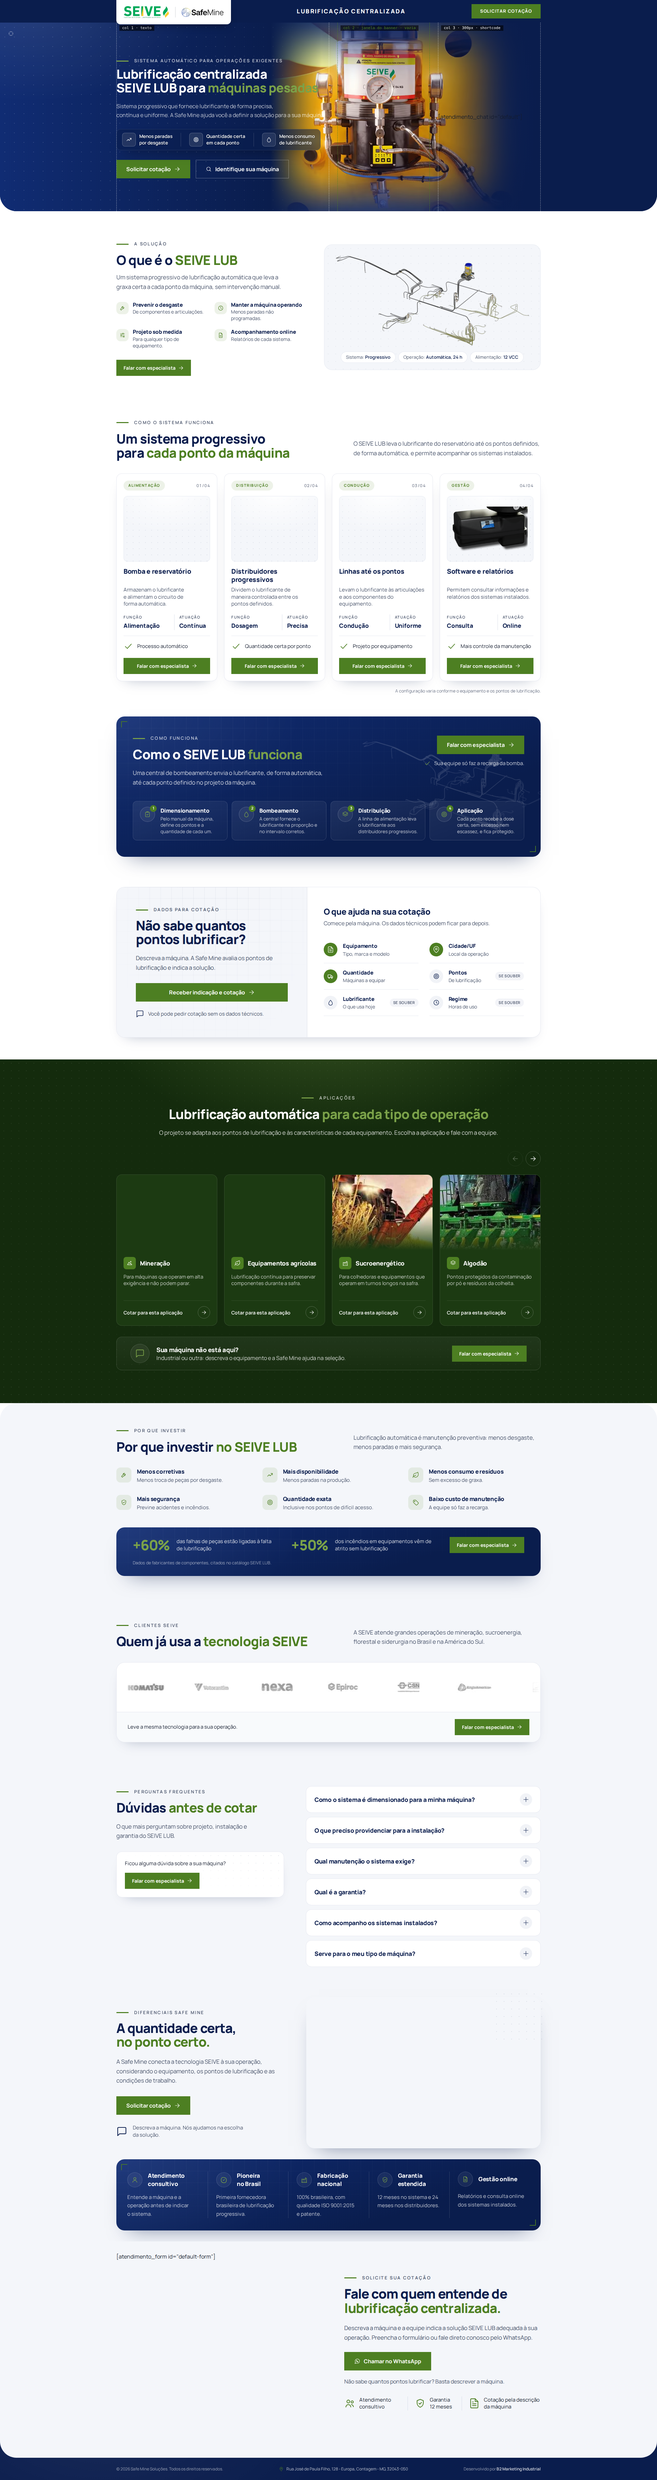
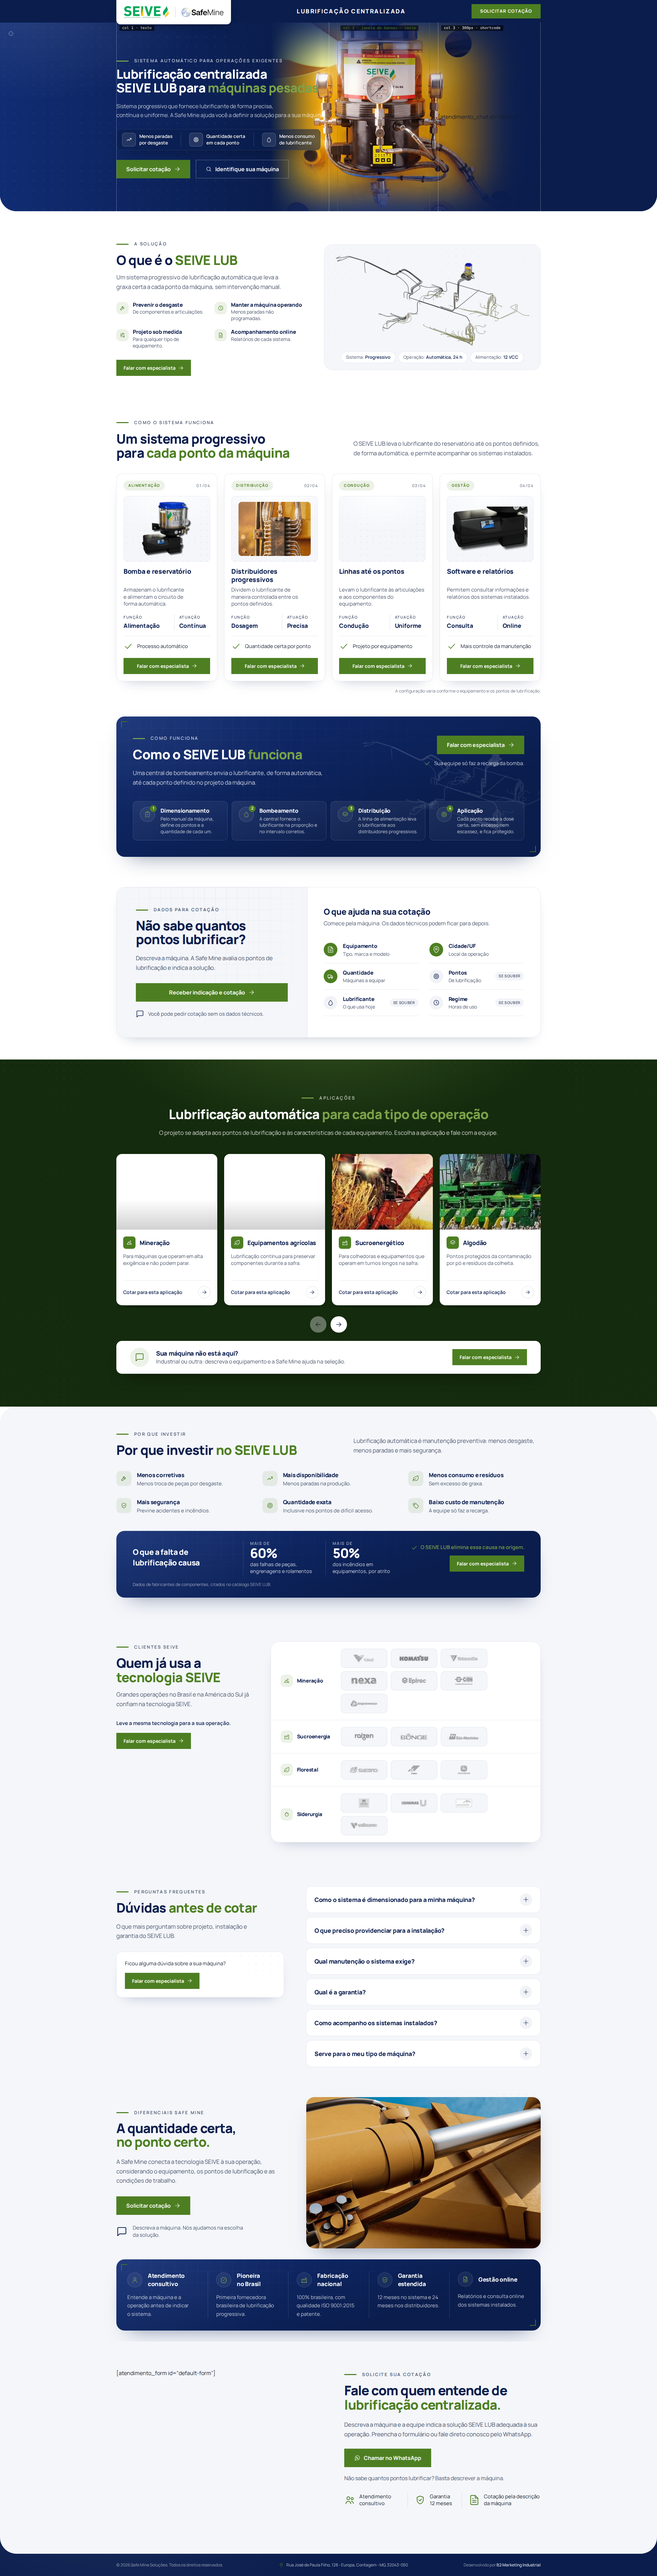
style: números como problema, cotação alinhada, aplicações em cards brancos
- Faixa de números: título "O que a falta de lubrificação causa", "mais de
  60%/50%" em branco e o fecho "O SEIVE LUB elimina essa causa na origem".
- Cotação: colunas alinhadas pelo topo e respiro acima/abaixo.
- Aplicações: cards e faixa de ajuda brancos sobre o verde; setas
  centralizadas abaixo do carrossel.
- Clientes agrupados por setor (sai o logo ilegível da AngloGold).

diff --git a/src/data/sections/clientes.ts b/src/data/sections/clientes.ts
@@ -4,9 +4,11 @@
  * Logos da página 5 do catálogo SEIVE LUB 2024: são clientes da fabricante, não da
  * Safe Mine, e entraram com o aval da B2 em 01/11/2026 (docs/BRIEFING.md). Vieram do PDF
  * em baixa resolução (cerca de 75×22 px cada); troque pelos arquivos originais quando
- * chegarem. Nesta LP são 18 logos em carrossel, acima dos 4–8 da biblioteca, e sem os
- * números da biblioteca (saíram a pedido do usuário em 03/11/2026).
+ * chegarem. Nesta LP são 17 logos agrupados por setor, como no catálogo, acima dos 4–8 da
+ * biblioteca, e sem os números (saíram a pedido do usuário em 03/11/2026). O logo da
+ * AngloGold Ashanti saiu por ficar ilegível na resolução do PDF.
  */
+import type { IconName } from '@data/icons'
 import type { Photo } from '@data/types'
 
 import vale from '@assets/clientes/vale.png'
@@ -16,7 +18,6 @@ import nexa from '@assets/clientes/nexa.png'
 import epiroc from '@assets/clientes/epiroc.png'
 import csn from '@assets/clientes/csn.png'
 import angloAmerican from '@assets/clientes/anglo-american.png'
-import anglogold from '@assets/clientes/anglogold-ashanti.png'
 import raizen from '@assets/clientes/raizen.png'
 import bunge from '@assets/clientes/bunge.png'
 import saoMartinho from '@assets/clientes/sao-martinho.png'
@@ -28,41 +29,54 @@ import usiminas from '@assets/clientes/usiminas.png'
 import arcelor from '@assets/clientes/arcelormittal.png'
 import vallourec from '@assets/clientes/vallourec.png'
 
-const logo = (src: Photo['src'], name: string) => ({ src, alt: name })
+export type Sector = 'mineracao' | 'sucroenergia' | 'florestal' | 'siderurgia'
+
+export interface ClientLogo extends Photo {
+  sector: Sector
+}
+
+const logo = (src: Photo['src'], alt: string, sector: Sector): ClientLogo => ({ src, alt, sector })
 
 export const clients = {
   eyebrow: 'Clientes SEIVE',
   title: 'Quem já usa a tecnologia SEIVE',
   /** Trecho do título em verde. */
   titleHighlight: 'tecnologia SEIVE',
-  text: 'A SEIVE atende grandes operações de mineração, sucroenergia, florestal e siderurgia no Brasil e na América do Sul.',
-  logos: [
-    logo(vale, 'Vale'),
-    logo(komatsu, 'Komatsu'),
-    logo(votorantim, 'Votorantim'),
-    logo(nexa, 'Nexa'),
-    logo(epiroc, 'Epiroc'),
-    logo(csn, 'CSN'),
-    logo(angloAmerican, 'Anglo American'),
-    logo(anglogold, 'AngloGold Ashanti'),
-    logo(raizen, 'Raízen'),
-    logo(bunge, 'Bunge'),
-    logo(saoMartinho, 'São Martinho'),
-    logo(suzano, 'Suzano'),
-    logo(klabin, 'Klabin'),
-    logo(johnDeere, 'John Deere'),
-    logo(gerdau, 'Gerdau'),
-    logo(usiminas, 'Usiminas'),
-    logo(arcelor, 'ArcelorMittal'),
-    logo(vallourec, 'Vallourec'),
-  ],
-  /** Linha ao lado do CTA, no pé do carrossel. */
+  text: 'Grandes operações no Brasil e na América do Sul já confiam na tecnologia SEIVE.',
+  /** Linha acima do CTA. */
   ctaText: 'Leve a mesma tecnologia para a sua operação.',
+  /** Setores na ordem da página 5 do catálogo; cada um vira uma linha de logos. */
+  sectors: [
+    { id: 'mineracao', label: 'Mineração', icon: 'mountain' },
+    { id: 'sucroenergia', label: 'Sucroenergia', icon: 'factory' },
+    { id: 'florestal', label: 'Florestal', icon: 'leaf' },
+    { id: 'siderurgia', label: 'Siderurgia', icon: 'flame' },
+  ],
+  logos: [
+    logo(vale, 'Vale', 'mineracao'),
+    logo(komatsu, 'Komatsu', 'mineracao'),
+    logo(votorantim, 'Votorantim', 'mineracao'),
+    logo(nexa, 'Nexa', 'mineracao'),
+    logo(epiroc, 'Epiroc', 'mineracao'),
+    logo(csn, 'CSN', 'mineracao'),
+    logo(angloAmerican, 'Anglo American', 'mineracao'),
+    logo(raizen, 'Raízen', 'sucroenergia'),
+    logo(bunge, 'Bunge', 'sucroenergia'),
+    logo(saoMartinho, 'São Martinho', 'sucroenergia'),
+    logo(suzano, 'Suzano', 'florestal'),
+    logo(klabin, 'Klabin', 'florestal'),
+    logo(johnDeere, 'John Deere', 'florestal'),
+    logo(gerdau, 'Gerdau', 'siderurgia'),
+    logo(usiminas, 'Usiminas', 'siderurgia'),
+    logo(arcelor, 'ArcelorMittal', 'siderurgia'),
+    logo(vallourec, 'Vallourec', 'siderurgia'),
+  ],
 } as const satisfies {
   eyebrow: string
   title: string
   titleHighlight: string
   text: string
-  logos: readonly Photo[]
   ctaText: string
+  sectors: readonly { id: Sector; label: string; icon: IconName }[]
+  logos: readonly ClientLogo[]
 }

diff --git a/src/data/sections/beneficios.ts b/src/data/sections/beneficios.ts
@@ -16,6 +16,7 @@ export interface Benefit {
 }
 
 export interface Stat {
+  prefix: string
   value: string
   label: string
 }
@@ -65,16 +66,22 @@ export const benefits = {
     },
   ],
   stats: {
+    /** Título da faixa: deixa claro que os números são o problema, não o resultado. */
+    title: 'O que a falta de lubrificação causa',
     items: [
       {
-        value: '+60%',
-        label: 'das falhas de peças estão ligadas à falta de lubrificação',
+        prefix: 'mais de',
+        value: '60%',
+        label: 'das falhas de peças, engrenagens e rolamentos',
       },
       {
-        value: '+50%',
-        label: 'dos incêndios em equipamentos vêm de atrito sem lubrificação',
+        prefix: 'mais de',
+        value: '50%',
+        label: 'dos incêndios em equipamentos, por atrito',
       },
     ],
+    /** Fecho da faixa: o SEIVE LUB atua nessa causa. */
+    answer: 'O SEIVE LUB elimina essa causa na origem.',
     source: 'Dados de fabricantes de componentes, citados no catálogo SEIVE LUB.',
   },
 } as const satisfies {
@@ -83,5 +90,5 @@ export const benefits = {
   titleHighlight: string
   text: string
   items: readonly Benefit[]
-  stats: { items: readonly [Stat, Stat]; source: string }
+  stats: { title: string; items: readonly [Stat, Stat]; answer: string; source: string }
 }
